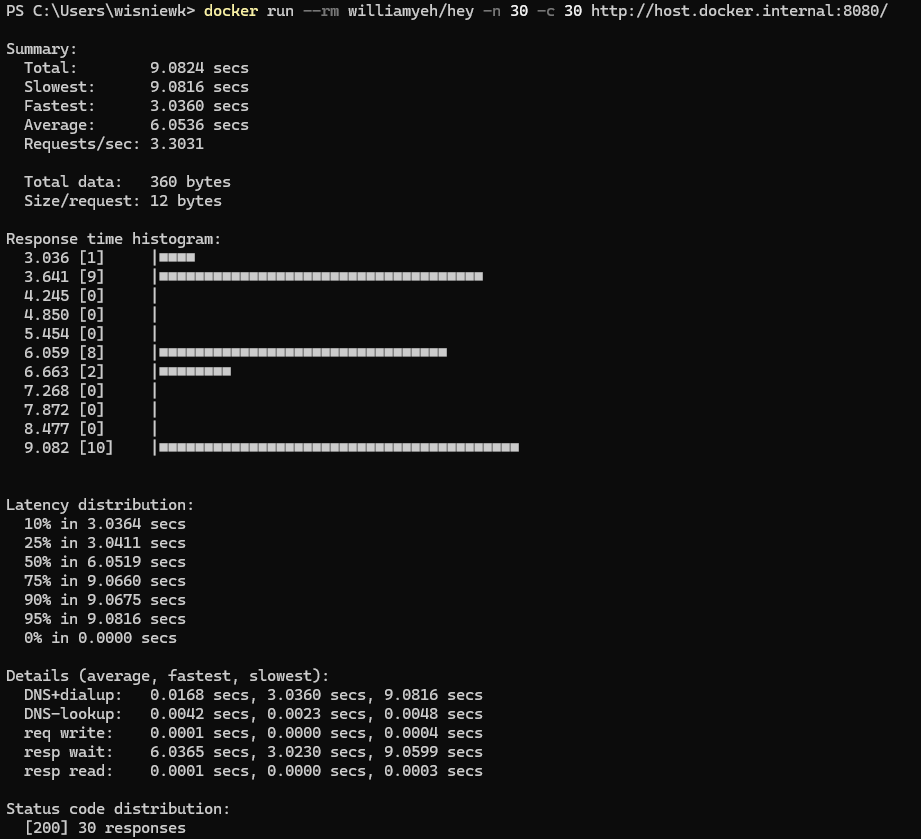
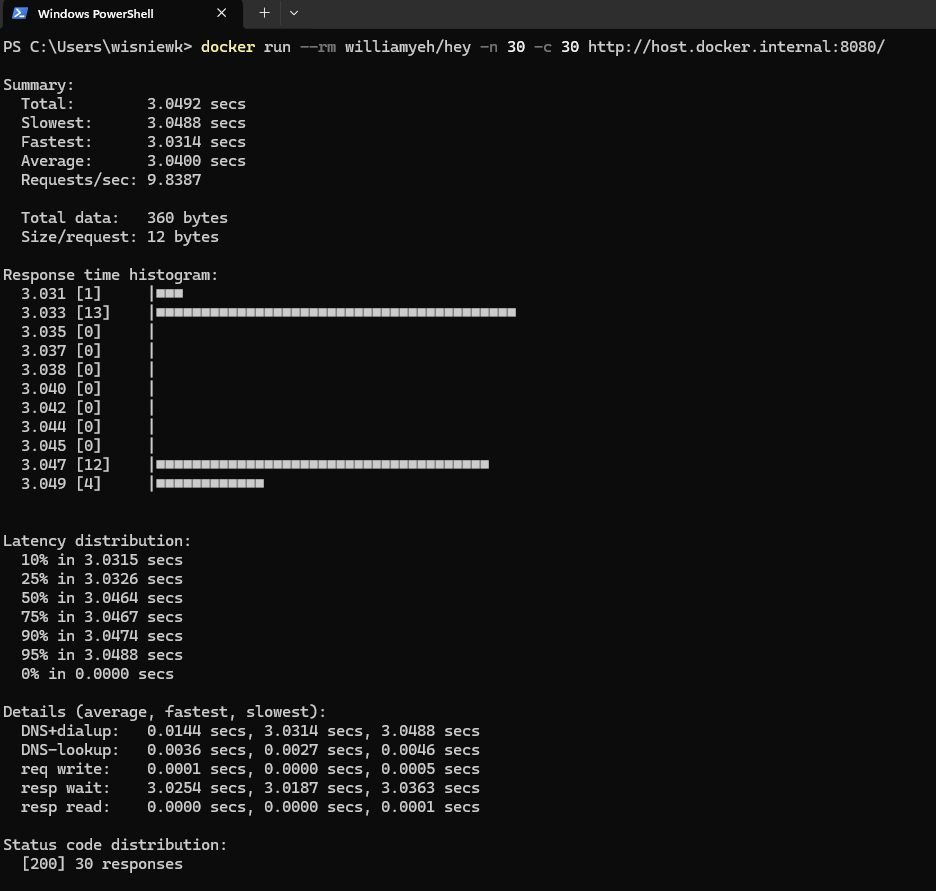
Update Readme file

Changed region(s): [[0.0, 0.0, 1.0, 0.5578], [0.0, 0.5888, 0.5168, 1.0]]

diff --git a/others/threads/fe-springboot-be-springboot-threads-virtual-property/README.md b/others/threads/fe-springboot-be-springboot-threads-virtual-property/README.md
@@ -2,7 +2,7 @@ DESCRIPTION
 -----------
 
 ##### Goal
-The goal of this project is to present how works chain of applications (services) **without multithreds**. Tool Hey **simulates 30 threads** at the same time. Front-End application is **restricted to only 10 threads**. Back-End application **works 3 seconds per call**. So **expected result of this example is 9 seconds.**
+The goal of this project is to present how to use **Java Virtual Threads** configures as **Spring property** for chain of applications (services). Tool Hey **simulates 30 threads** at the same time. Server Tomcat for Front-End application is **restricted to only 10 threads** but Front-End application uses Virtual Threads. Back-End application **works 3 seconds per call**. So **expected result of this example is 3 seconds** instead of 9 seconds for applications without Virtual Threads.
 
 This chain of services consists of following applications:
 * **Back-End**: an application created in **Java** programming language with usage **Spring Boot** framework
@@ -16,6 +16,7 @@ Terminology explanation:
 * **Spring Boot**: framework for Java. It consists of: Spring + Container + Configuration
 * **Back-End**: The back-end refers to the server-side part of a software application, responsible for managing the database, server logic, and application programming interface (API). It processes requests from the front-end (user interface), handles data storage, retrieval, and business logic, and sends the appropriate responses back to the front-end.
 * **Front-End**: Front-end refers to the part of a website or application that users interact with directly. It includes the visual elements, layout, and design, typically built using HTML, CSS, and JavaScript. The front-end is responsible for the user experience (UX) and interface (UI) that allows users to navigate and interact with the system.
+* **Virtual Threads**: A Java Virtual Thread is a lightweight, user-mode thread introduced in Java as part of Project Loom. Unlike traditional platform (OS) threads, virtual threads are managed by the JVM and allow for the creation of millions of concurrent tasks with low overhead, improving scalability and simplifying the development of concurrent applications.
 
 ##### Implementation
 Implementation details for Back-End:
@@ -23,6 +24,7 @@ Implementation details for Back-End:
 
 Implementation details for Front-End:
 * Limit Tomcat threads to 10 by adding property **server.tomcat.threads.max=10** (by default Tomcat uses from 10 to 200 threads)
+* Turn on Virtual Threads by adding property **spring.threads.virtual.enabled=true**
 
 
 EXAMPLE
@@ -49,7 +51,7 @@ USAGE MANUAL
 1. In the first command line tool **start Back-End application** with `mvn -f ./fe-springboot-be-springboot-threads-virtual-property_BE spring-boot:run`
 1. In the second command line tool **start Front-End application** with `mvn -f ./fe-springboot-be-springboot-threads-virtual-property_FE spring-boot:run`
 1. In the third command line tool **run Docker Hey image** for testing 30 threads with `docker run --rm williamyeh/hey -n 30 -c 30 http://host.docker.internal:8080/`
-   * Expected **Summary -> Total** with value **over 9 seconds** (test for 30 threads -> FE restricted to 10 threads -> BE API call restricted to at least 3 seconds)
+   * Expected **Summary -> Total** with value **over 3 seconds** (test for 30 threads -> FE restricted to 10 threads but with Virtual Threads -> BE API call restricted to at least 3 seconds)
 1. Clean up environment:
      * In the third command line tool **remove Docker Hey image** with `docker rmi williamyeh/hey`
      * In the second command line tool **stop Front-End application** with `ctrl + C`
